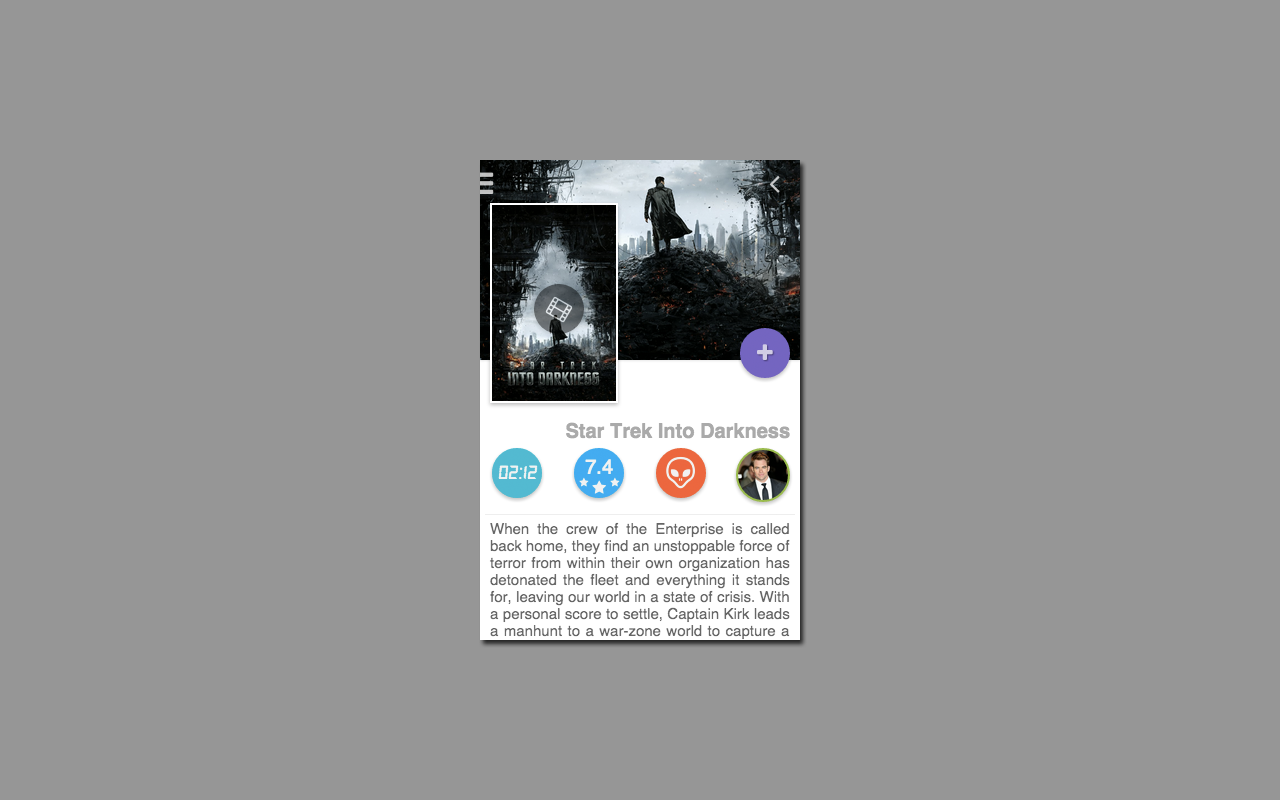
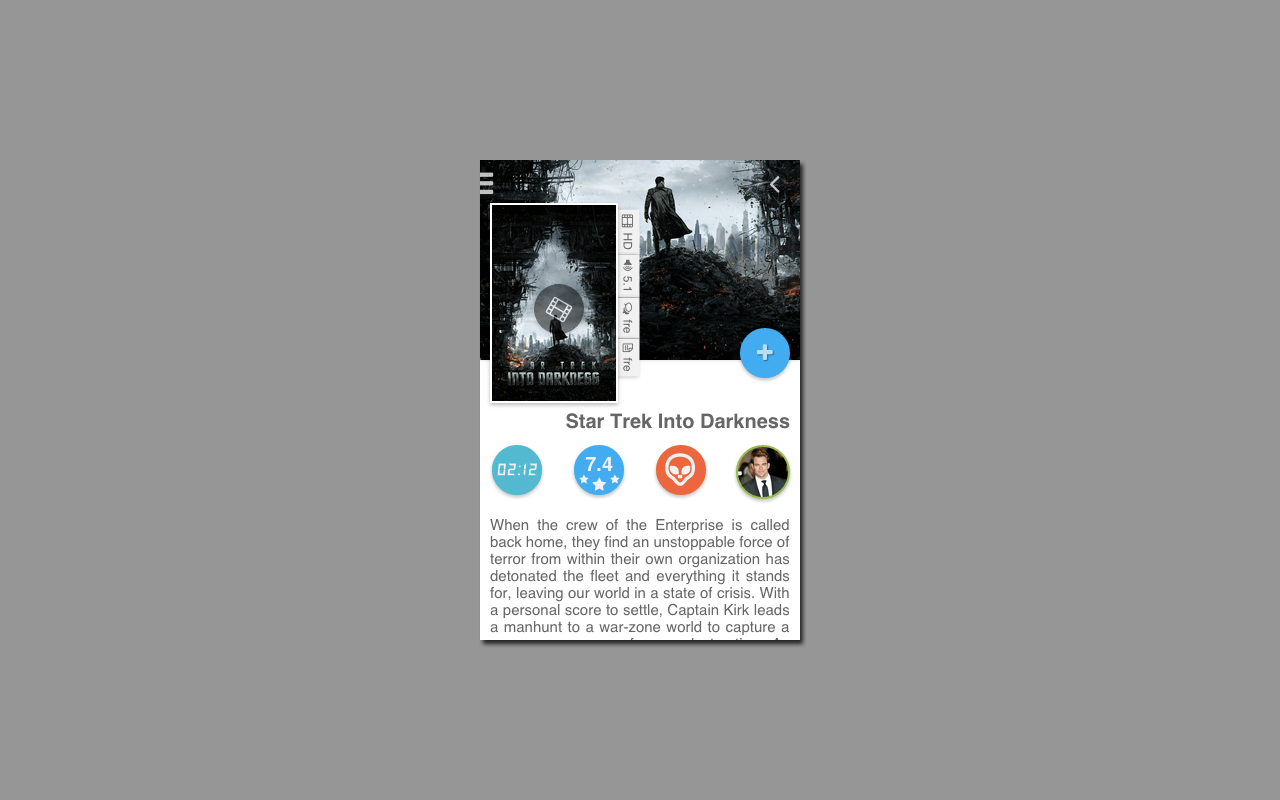
Analytics, Storage as promises, External tpl directives

Changed region(s): [[0.375, 0.5, 0.625, 0.8125], [0.4688, 0.2812, 0.5, 0.4688], [0.5625, 0.4062, 0.625, 0.4688]]

diff --git a/client/src/app/app.js b/client/src/app/app.js
@@ -20,32 +20,27 @@ angular.module('app', [
 
 // this is where our app definition is
 angular.module('app')
-.config(['$stateProvider', '$urlRouterProvider', 'storageProvider',
-  function($stateProvider, $urlRouterProvider, storageProvider) {
-    var xbmchost = storageProvider.getItem('xbmchost', function(value) {
-      if (value === null) {
-        storageProvider.getItem('hosts', function(value) {
-          if (value === null) {
-            $urlRouterProvider.otherwise("/host/wizard");
-          } else {
-            $urlRouterProvider.otherwise("/");
-          }
-        });
-      } else {
-        $urlRouterProvider.otherwise("/");
-      }
-    });
+.config(['$stateProvider', '$urlRouterProvider',
+  function($stateProvider, $urlRouterProvider) {
+    $urlRouterProvider.otherwise("/");
   }
-  ])
+])
 .controller('AppCtrl', ['$scope', '$rootScope', '$state', '$location', '$filter', 'xbmc', 'storage',
   function($scope, $rootScope, $state, $location, $filter, xbmc, storage) {
+    var asChromeApp = window.chrome && window.chrome.storage;
+    var analyticsService, analyticsTracker;
+    if(asChromeApp) {
+      analyticsService  = analytics.getService('Foxmote');
+      analyticsTracker = analyticsService.getTracker('UA-55050807-1');
+    }
+
     $scope.theme = 'yin';
     storage.getItem('theme', function(theme) {
       $scope.theme = theme;
     });
     $scope.$state = $state;
     $scope.connected = false;
-    $scope.initialized = false;
+    $scope.initialized = true;
     $scope.isMaximized = false;
     $scope.player = {
       id: -1,
@@ -78,6 +73,9 @@ angular.module('app')
         $scope.isMaximized = !$scope.isMaximized;
       }
       $location.path(path);
+      if(asChromeApp) {
+        analyticsTracker.sendAppView(path);
+      }
     };
 
     $scope.hasFooter = function() {
@@ -250,7 +248,7 @@ angular.module('app')
         fn: onDisconnect,
         scope: this
       });
-      storage.getItem('xbmchost', function(value) {
+      storage.getItem('xbmchost').then(function(value) {
         if (value !== null) {
           //Old version of the app
           var defaultHost = value.host;
@@ -261,7 +259,7 @@ angular.module('app')
           initialize(defaultHost);
         } else {
           //New version of the app migration was done. Default behavior
-          storage.getItem('hosts', function(value) {
+          storage.getItem('hosts').then(function(value) {
             if (value !== null) {
               var filterDefault = function(el) {
                 return el.default;

diff --git a/client/src/common/services/storage.js b/client/src/common/services/storage.js
@@ -1,5 +1,6 @@
 angular.module('services.storage', [])
-.provider('storage', function () {
+.factory('storage', [ '$q', '$timeout', function ($q, $timeout) {
+  var factory = {};
   var asChromeApp = false;
   if(window.chrome && window.chrome.storage) {
     asChromeApp = true;
@@ -17,17 +18,21 @@ angular.module('services.storage', [])
     return JSON.stringify(obj);
   };
 
-  this.getItem = function (key, cb) {
+  factory.getItem = function (key) {
+    var defer = $q.defer();
     if(!asChromeApp) {
-      cb(toObject(window.localStorage.getItem(key)));
+      $timeout(function(){
+        defer.resolve(toObject(window.localStorage.getItem(key)));
+      }, 100);
     } else {
       chrome.storage.local.get(key, function(items){
-        cb(toObject(items[key] || null));
-      })
+        defer.resolve(toObject(items[key] || null));
+      });
     }
+    return defer.promise;
   };
 
-  this.setItem = function (key, value) {
+  factory.setItem = function (key, value) {
     if(!asChromeApp) {
       window.localStorage.setItem(key, toJSON(value));
     } else {
@@ -37,7 +42,7 @@ angular.module('services.storage', [])
     }
   };
 
-  this.removeItem = function (key) {
+  factory.removeItem = function (key) {
     if(!asChromeApp) {
       window.localStorage.removeItem(key);
     } else {
@@ -45,11 +50,5 @@ angular.module('services.storage', [])
     }
   };
 
-  this.$get = function () {
-    return {
-      getItem: this.getItem,
-      setItem: this.setItem,
-      removeItem: this.removeItem
-    }
-  };
-});
+  return factory;
+}]);

diff --git a/client/src/less/modules/detail.less b/client/src/less/modules/detail.less
@@ -16,7 +16,7 @@
   .box-sizing;
   width  :100%;
   background-size: 100%;
-  height : 20rem;
+  height : 19rem;
   border: 0.25rem solid white;
 }
 
@@ -145,28 +145,28 @@
 
 .stream.details {
   position: absolute;
-  top: 4rem;
+  top: 5rem;
   left: 14rem;
   text-align: center;
+  white-space: nowrap;
   transform: rotate(90deg);
   transform-origin: .5rem;
-  white-space: nowrap;
 }
 
 .stream.details .detail {
-  display: inline-block;
-  padding: 0.5rem .5rem;
+  display: inline;
+  padding: .5rem .5rem;
   margin-bottom: .5rem;
-  font-size: 1.2rem;
   color: #666666;
   text-align: right;
   background-color: #f1f1f1;
   color: @primaryTextColor;
   box-shadow: 0 2px 5px 0 rgba(0, 0, 0, 0.26);
+  font-size: 1.1rem;
 }
 
 .stream.details .detail:last-child {
   margin : 0;
 }
 
-.stream.details .detail i {padding-right : .5rem;}
+.stream.details .detail i {padding-right : .25rem;}

diff --git a/client/src/common/directives/streamdetails.js b/client/src/common/directives/streamdetails.js
@@ -4,12 +4,7 @@ angular.module('directives.streamdetails', [])
   return {
     restrict: 'E',
     replace : true,
-    template: '<div class="stream details">'+
-    '<div class="detail video mode" ng-show="hasVideo()"><i class="icon-film"></i>{{getVideoMode()}}</div>'+
-    '<div class="detail audio channels" ng-show="hasAudio()"><i class="icon-volume-up"></i>{{getAudioChannels()}}</div>'+
-    '<div class="detail audio lang" ng-show="hasAudio()"><i class="icon-comments-alt"></i>{{getAudioLanguage()}}</div>'+
-    '<div class="detail audio subtitle" ng-show="hasSubtitle()"><i class="icon-file-text-alt"></i>{{getSubtitles()}}</div>'+
-    '</div>',
+    templateUrl: 'template/streamdetails/streamdetails.tpl.html',
     scope: {
       details: '='
     },

diff --git a/client/src/app/remote/remote.tpl.html b/client/src/app/remote/remote.tpl.html
@@ -3,7 +3,7 @@
         <div ng-switch on="player.active">
             <div ng-switch-when="true">
                 <div class="banner" image image-source="player.item.fanart | asset:host"></div>
-                <div role="slider" seekbar seekbar-value="player.seek.percentage" seekbar-max="100" seekbar-read-only="true"></div>
+                <seekbar seekbar-value="player.seek.percentage" seekbar-max="100" seekbar-read-only="true"></seekbar>
                 <div class="label">{{player.item.label}}</div>
                 <div class="md-action md-action-primary" ng-click="xbmc.togglePlay()" ng-show="!player.speed">
                     <i class="offset4 span4 icon-play">

diff --git a/client/src/app/now/playing.tpl.html b/client/src/app/now/playing.tpl.html
@@ -31,8 +31,8 @@
                     <i class="icon-quote-left"></i>
                 </div>
             </div>
-            <div role="slider" class="row" seekbar seekbar-value="player.seek.percentage" seekbar-max="100"
-                         on-seekbar-changed="onSeekbarChanged(newValue)"></div>
+            <seekbar seekbar-value="player.seek.percentage" seekbar-max="100"
+                         on-seekbar-changed="onSeekbarChanged(newValue)"></seekbar>
             <div class="row controls">
                 <div class="span3" ng-click="xbmc.previous()">
                     <i class="icon-fast-backward"></i>

diff --git a/client/src/app/template/streamdetails/streamdetails.tpl.html b/client/src/app/template/streamdetails/streamdetails.tpl.html
@@ -1,0 +1,18 @@
+<div class="stream details">
+  <div class="detail video mode" ng-show="hasVideo()">
+    <i class="icon-film"></i>
+    {{getVideoMode()}}
+  </div>
+  <div class="detail audio channels" ng-show="hasAudio()">
+    <i class="icon-volume-up"></i>
+    {{getAudioChannels()}}
+  </div>
+  <div class="detail audio lang" ng-show="hasAudio()">
+    <i class="icon-comments-alt"></i>
+    {{getAudioLanguage()}}
+  </div>
+  <div class="detail audio subtitle" ng-show="hasSubtitle()">
+    <i class="icon-file-text-alt"></i>
+    {{getSubtitles()}}
+  </div>
+</div>

diff --git a/client/src/index.html b/client/src/index.html
@@ -11,6 +11,7 @@
     <link rel="stylesheet" type="text/css" href="css/yang.css" ng-disabled="theme==='yin'"></link>
     <script type="text/javascript" src="js/lib/angular.js"></script>
     <script type="text/javascript" src="js/lib/mousetrap.js"></script>
+    <script type="text/javascript" src="js/lib/google-analytics-bundle.js"></script>
     <script type="text/javascript" src="js/<%= grunt.config.get('pkg.name') %>.js"></script>
   </head>
   <body role="application" ng-swipe-right="showDrawer()" ng-swipe-left="hideDrawer()">

diff --git a/client/src/app/navigation/navigation.tpl.html b/client/src/app/navigation/navigation.tpl.html
@@ -67,7 +67,7 @@
         </ul>
     </nav>
     <div class="now playing" ng-show="player.active">
-        <div role="slider" seekbar seekbar-value="player.seek.percentage" seekbar-max="100" seekbar-read-only="true"></div>
+        <seekbar seekbar-value="player.seek.percentage" seekbar-max="100" seekbar-read-only="true"></seekbar>
         <div class="row">
             <div ng-switch on="hasPoster(player.item.art)">
                 <div ng-switch-when="true" ng-click="go('/now/playing','none')">

diff --git a/client/src/common/directives/rating.js b/client/src/common/directives/rating.js
@@ -3,12 +3,7 @@ angular.module('directives.rating', [])
 .directive('rating', function () {
   return {
     restrict: 'A',
-    template: '<div class="md-circle rating">' +
-    '<div class="value">{{roundedValue}}</div>' +
-    '<i class="star icon-star left"></i>'+
-    '<i class="star icon-star middle"></i>'+
-    '<i class="star icon-star right"></i>'+
-    '</div>',
+    templateUrl: 'template/rating/rating.tpl.html',
     scope: {
       ratingValue: '=',
       ratingMax: '='

diff --git a/client/gruntFile.js b/client/gruntFile.js
@@ -93,6 +93,10 @@ module.exports = function (grunt) {
             mousetrap: {
                 src:['vendor/mousetrap/mousetrap.js'],
                 dest: '<%= wwwdir %>/js/lib/mousetrap.js'
+            },
+            googleAnalyticsBundle : {
+                src:['vendor/chrome-platform-analytic/google-analytics-bundle.js'],
+                dest: '<%= wwwdir %>/js/lib/google-analytics-bundle.js'
             }
         },
         uglify: {

diff --git a/client/src/common/directives/flipper.js b/client/src/common/directives/flipper.js
@@ -5,7 +5,7 @@ angular.module('directives.flipper', [])
     restrict: 'E',
     transclude : true,
     replace : true,
-    template: '<div class="flipper" ng-transclude ng-class="{flipped : flipped}"></div>',
+    templateUrl: 'template/flipper/flipper.tpl.html',
     link: function (scope, elem, attrs) {
       scope.flipped = false;
       elem.bind('touchstart', function (evt) {
